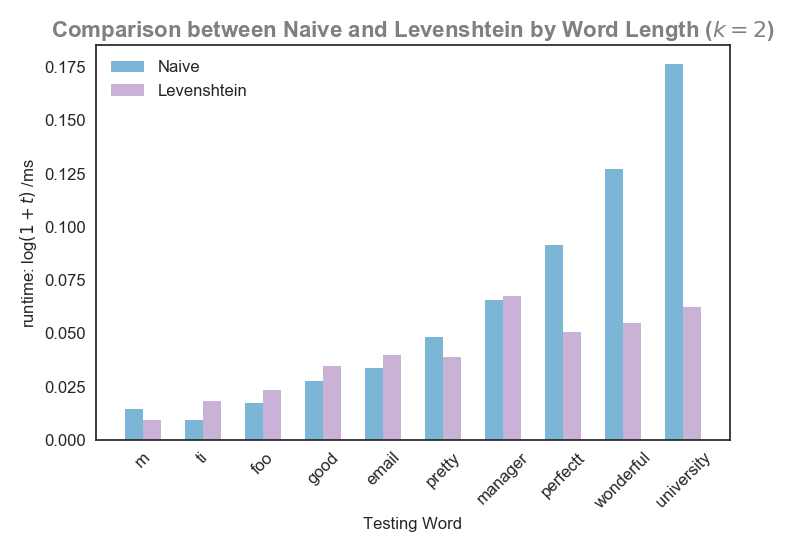
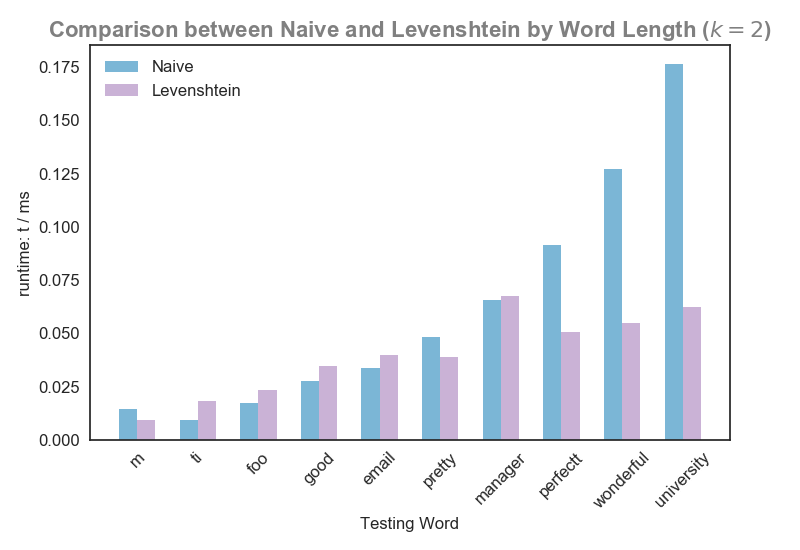
improved demo

diff --git a/demo/main.html b/demo/main.html
@@ -4,7 +4,7 @@
     <script src="https://cdnjs.cloudflare.com/ajax/libs/semantic-ui/1.11.8/semantic.min.js"></script>
     
     <div class="ui teal inverted segment">
-        <h1 style = "text-align: center; margin:20px">Levenshtein NFA Walker</h1>
+        <h1 style = "text-align: center; margin:20px">Stanford CS166 - Levenshtein NFA Walker</h1>
     </div>
 
 
@@ -26,7 +26,7 @@
         $body
 
         <div class="ui teal inverted segment" style="margin-bottom: 30px">
-            <h2>All Valid Candidates: </h2>
+            <h2> <span style= "color: #FFD92F; font-size: 38">$nc</span> Valid Candidate(s) Are Found in <span style= "color: #FFD92F; font-size:38">$t s</span>:</h2>
             <div style= "font-size:24"> 
                 $candidates 
             </div>

diff --git a/weighted/draw_weighted.py b/weighted/draw_weighted.py
@@ -1,75 +1,53 @@
 import sys
 sys.path.append("../")
 from lib.util.plotter import *
-from weighted.weighted_lev_gen import *
+from weighted_lev_gen import *
 
 from graphviz import Digraph
 
 # [c_insert, c_delete, c_subs]
-weighted_cost = [3, 4, 2]
+weighted_cost = [1, 2, 3]
 
-w = "foood"
+w = "data"
 k = 3
 
-corpus_dfa = corpus2dfa(corpus_path)
-weighted_lev = WeighedLevTrieGenerator(weighted_cost, corpus_dfa)
-weighted_lev.gen_candidates(w, k)
-
-def draw_lev_nfa(word, k, **kargs):
+def draw_weighted_lev_nfa(word, k, **kargs):
     """
     Args:
         NFA:
 
     Return:
     """
+    lev = WeighedLevTrieGenerator(weighted_cost, {})
+    nfa = lev.construct_levenshten_nfa(word, k)
     f = Digraph('finite_state_machine', filename=kargs.get("fname", "nfa"))
     f.attr(rankdir='LR', size='5')
     n = len(word)
-    accepted = kargs.get("accepted", {})
-    # accepted states
-    for i in range(n + 1):
-        for j in range(k+1):
-            shape = "doublecircle" if i == n else "circle"
-            penwidth = "4" if i == n in accepted else "1.6"
-            style =  "filled" if (i, j) in accepted else ""
-            color =  green if (i, j) in accepted else black
-            f.node(str((i, j)), color = color, penwidth = penwidth, style=style, fontsize = "20", shape = shape, pos = "{},{}!".format(i*10, j*10))
+    for s in nfa.states:
+        i , j = eval(s)
+        accepted = s in nfa.final_states 
+        shape = "doublecircle" if accepted else "circle"
+        penwidth = "4" if accepted else "1.6"
+        style =  "filled" if accepted else ""
+        color =  green if accepted else black
+        f.node(str((i, j)), color = color, penwidth = penwidth, style=style, fontsize = "20", shape = shape)
     # transitions
     f.attr('node', shape='circle')
-    for i in range(n + 1):
-        for j in range(k + 1):
-            if j < k: # up
-                f.edge(str((i, j)), str((i, j + 1)), label="*", fontsize="20", color=blue, penwidth="2")
-            if i < n: # ->
-                f.edge(str((i, j)), str((i + 1, j)), label=word[i], fontsize="30", penwidth="2")
-            if i < n and j < k: # diag
-                f.edge(str((i, j)), str((i + 1, j + 1)), label="*", fontsize="24", color=light_purple, penwidth="2")
-                f.edge(str((i, j)), str((i + 1, j + 1)), label="<&#949;>", fontsize = "24", color="red", penwidth="2")
+    for s in nfa.states:
+        i, e = eval(s)
+        remain = k - e
+        if remain >= lev.c_insert:
+            f.edge(s, str((i, e + lev.c_insert)), label="*", fontsize="30", color=blue, penwidth="2")
+        if i >= n: continue
+        f.edge(s, str((i + 1, e)), label=word[i], fontsize="30", penwidth="2")
+        if remain >= lev.c_subs:
+            f.edge(s, str((i + 1, e + lev.c_subs)), label="*", fontsize="30", color=light_purple, penwidth="2")
+        if remain >= lev.c_delete:
+            f.edge(s, str((i + 1, e + lev.c_delete)), label="<&#949;>", fontsize="20", color=red, penwidth="2")
+
+
     f.format = kargs.get("format", "svg")
-    f.rotate = 180
     f.render()
 
-def render_weighted_dfa_walker(lev_w, w, k):
-    """walk dfa on string w
-    Args:
-        dfa:
 
-    Return:
-    """
-    outputs = []
-    step = 0
-    dfa = construct_levenshten(lev_w, k)
-    s = dfa.initial_state
-    acc_s = ""
-    for i, ch in enumerate(w):
-        fname = "{}_{}_{}_{}".format(lev_w, w, k, step)
-        s = dfa.transitions[s][ch]
-        acc_s += ch
-        next_states = eval(s)
-        if not next_states:
-            outputs.append((acc_s, None))
-            return outputs
-        draw_lev_nfa(lev_w, k, fname = fname, accepted = next_states)
-        outputs.append((acc_s, fname))
-        step += 1
-    return outputs
+draw_weighted_lev_nfa(w, k, fname = "weighted_dfa")

diff --git a/demo/render.py b/demo/render.py
@@ -7,7 +7,8 @@ from lev_trie_gen import *
 import string
 from lib.util.timer import * 
 
-NOT_FOUDN = "http://shorelineseafoodinc.com/assets/images/404.png"
+NOT_FOUND = "http://shorelineseafoodinc.com/assets/images/404.png"
+SUCCESS  = "https://i.pinimg.com/originals/ea/3d/cf/ea3dcff8ed8e8939d98c96b81f747623.png"
 
 timer = Timer()
 corpus_trie  = load_data(corpus_trie_path) 
@@ -32,25 +33,28 @@ def render(w, test_w, k):
 
     sections = []
     for (t, f) in figures:
-        fig  = "{}.svg".format(f) if f is not None else NOT_FOUDN
+        fig  = "{}.svg".format(f) if f is not None else NOT_FOUND
         curr_sec = section_template.substitute(title = t, fig = fig)
         sections.append(curr_sec)
-    body_html = "\n".join(sections)
+    if figures[-1][1] is not None:
+        curr_sec = section_template.substitute(title = "Success", fig = SUCCESS)
+        sections.append(curr_sec)
 
+    body_html = "\n".join(sections) 
 
     output = "{}_{}_k_{}.html".format(w, test_w, k)
 
     timer.start("Generating Candidates for {} Takes".format(w))
     print("--=-=-=-=-=-=-=-=-=-=-=-=-=-=-=-=-=-=-=-=-=-=-=-=")
     candidates = generater.gen_candidates(w, k)
-    timer.stop_and_report("Generating Candidates for {} Takes".format(w))
+    t = timer.stop("Generating Candidates for {} Takes".format(w))
     can_str = ", ".join(sorted(candidates))
 
-    html = html_template.substitute(body = body_html, lev_w = w, test_w = "{} (k = {})".format(test_w, k), candidates = can_str)
+    html = html_template.substitute(body = body_html, lev_w = w, test_w = "{} (k = {})".format(test_w, k), candidates = can_str, nc = len(candidates), t = "{:.3f}".format(t))
     with open(output, "w") as f:
         f.write(html)
 
-    print("{} rendered!".format(output))
+    # print("{} rendered!".format(output))
     
     return output 
 

diff --git a/weighted/weighted_lev_gen.py b/weighted/weighted_lev_gen.py
@@ -17,6 +17,10 @@ class WeighedLevTrieGenerator(LevTrieDFAGenerator):
         WeightedGenerator.__init__(self, costs)
 
     def construct_levenshten(self, word, k):
+        nfa = self.construct_levenshten_nfa(word, k)
+        return DFA.from_nfa(nfa)
+
+    def construct_levenshten_nfa(self, word, k):
         """
         Args:
             word:
@@ -60,7 +64,7 @@ class WeighedLevTrieGenerator(LevTrieDFAGenerator):
                   initial_state = m[(0, 0)],\
                   final_states = {m[(n, j)] for j in range(k + 1)},\
                   input_symbols = set(ALPHABETS))
-        return DFA.from_nfa(nfa)
+        return nfa 
 
 
     def gen_candidates(self, w, k):

diff --git a/demo/explore.py b/demo/explore.py
@@ -6,7 +6,7 @@ import webbrowser
 print("Welcome to CS166-Levenshtein Automation Walker !")
 print("-------------------------------------------------")
 while 1:
-    print("Type your word for Levenshtein, test word and max edit distance like: <Lev_W> <Test_Word> k")
+    print("Type your word for Levenshtein, test word and max edit distance like: <Levenshtein_Word> <Test_Word> k")
     print("Your input: ")
     user_input = input()
     if (user_input == "exit"): 

diff --git a/analysis/plot_runtime_by_word_len.py b/analysis/plot_runtime_by_word_len.py
@@ -22,7 +22,7 @@ ax.bar(lens - w/2, naive, width = w, color=blue, align='center')
 ax.bar(lens + w/2, lev, width = w, color=light_purple, align='center')
 
 plt.xticks(lens, words, rotation = 45)
-ax.set_ylabel("runtime: log$(1 + t)$ /ms", fontsize=12)
+ax.set_ylabel("runtime: t / ms", fontsize=12)
 ax.set_xlabel("Testing Word", fontsize=12)
 
 plt.legend(["Naive", "Levenshtein"])

diff --git a/demo/draw.py b/demo/draw.py
@@ -67,5 +67,7 @@ def render_dfa_walker(lev_w, w, k):
         draw_lev_nfa(lev_w, k, fname = fname, accepted = next_states)
         outputs.append((acc_s, fname))
         step += 1
+    if s not in dfa.final_states:
+        outputs.append(("Failure", None))
     return outputs
 

diff --git a/lib/util/timer.py b/lib/util/timer.py
@@ -53,4 +53,4 @@ class Timer(object):
         Return: 
         """
         elapsed = self.stop(key)
-        print("{:16}:  {:.3f} ms".format(key, elapsed))
+        print("{:16}:  {:.3f} s".format(key, elapsed))

diff --git a/demo/test_draw.py b/demo/test_draw.py
@@ -1,0 +1,3 @@
+from draw import *
+
+draw_lev_nfa("data", 2)
